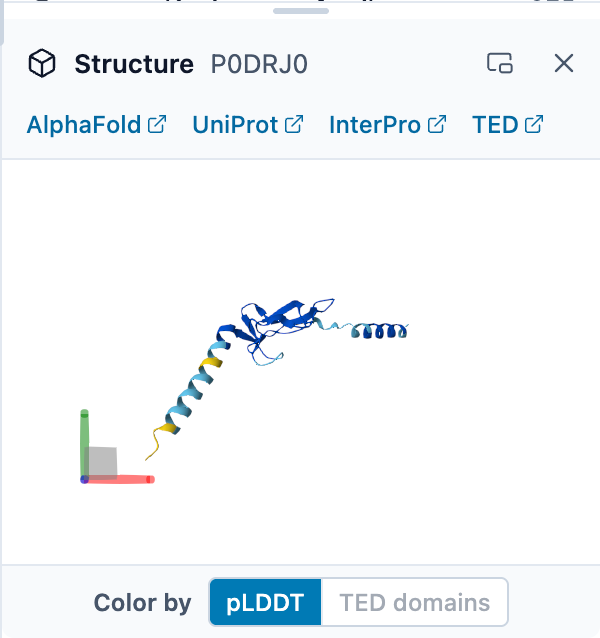
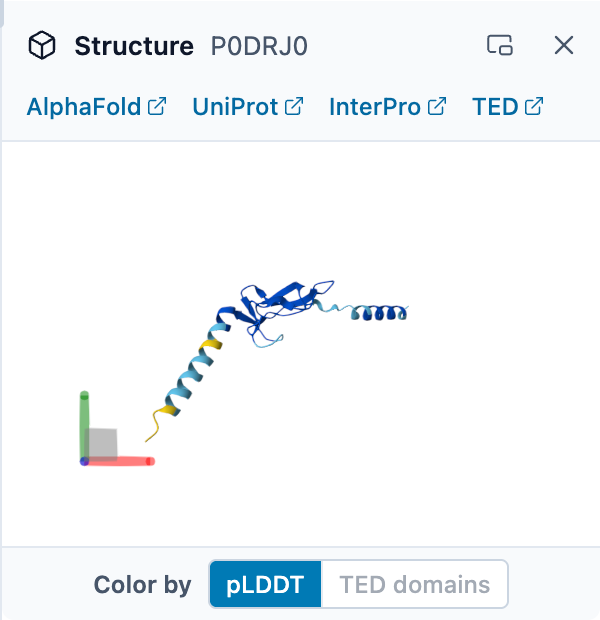
docs(explore): crop the app bar and view bar to readable pieces

diff --git a/scripts/docs-screenshots/scenes/overview.ts b/scripts/docs-screenshots/scenes/overview.ts
@@ -4,8 +4,15 @@
  * Ported from the old static captures (interface-overview 177, scatterplot-example 186,
  * legend-panel 195, structure-viewer 204 at a8cb13ca), on the workbench's helpers.
  */
-import { expect, type Page } from '@playwright/test';
-import { appBar, plotArea, viewBar } from '../../../apps/web/tests/helpers/explore';
+import { expect, type Locator, type Page } from '@playwright/test';
+import {
+  appBar,
+  filterButton,
+  plotArea,
+  projectionTrigger,
+  proteinSearch,
+  viewBar,
+} from '../../../apps/web/tests/helpers/explore';
 import { legend } from '../../../apps/web/tests/helpers/legend';
 import {
   waitForStructureLoaded,
@@ -17,7 +24,7 @@ import {
   rail,
   structurePanel,
 } from '../../../apps/web/tests/helpers/workbench';
-import type { CaptureEntry } from '../capture-plan';
+import type { CaptureEntry, Clip } from '../capture-plan';
 import { around } from './clip';
 
 /** Mol* loads from jsDelivr and the model from AlphaFold: allow for both on a slow network. */
@@ -32,6 +39,17 @@ async function showStructure(page: Page): Promise<void> {
 
 const themeMenu = (page: Page) => page.getByRole('menu', { name: 'Theme', exact: true });
 
+/**
+ * A bar's full height, from `first`'s left edge to `last`'s right edge, grown by `pad`: a full-width
+ * bar shown in the ~690 px docs column would shrink its text to a few pixels.
+ */
+async function barSpan(bar: Locator, first: Locator, last: Locator, pad = 12): Promise<Clip> {
+  const [b, l, r] = await Promise.all([around([bar], 0), around([first], 0), around([last], 0)]);
+  const x = Math.max(b.x, l.x - pad);
+  const right = Math.min(b.x + b.width, r.x + r.width + pad);
+  return { x, y: b.y, width: right - x, height: b.height };
+}
+
 export const OVERVIEW_CAPTURES: CaptureEntry[] = [
   {
     name: 'interface-overview',
@@ -43,11 +61,29 @@ export const OVERVIEW_CAPTURES: CaptureEntry[] = [
     docs: ['explore/index.md'],
   },
   {
-    name: 'app-bar',
+    name: 'app-bar-start',
     kind: 'png',
     viewport: 'desktop',
     themes: ['light', 'dark'],
-    target: (page) => appBar(page),
+    // The logo, the dataset name and the search.
+    target: (page) =>
+      barSpan(
+        appBar(page),
+        appBar(page).locator('[data-workbench="app-bar-start"]'),
+        proteinSearch(page),
+      ),
+    docs: ['explore/index.md'],
+  },
+  {
+    name: 'app-bar-actions',
+    kind: 'png',
+    viewport: 'desktop',
+    themes: ['light', 'dark'],
+    // Import and Export, Theme, Help, Feedback and GitHub.
+    target: (page) => {
+      const actions = appBar(page).locator('[data-workbench="app-bar-actions"]');
+      return barSpan(appBar(page), actions, actions);
+    },
     docs: ['explore/index.md'],
   },
   {
@@ -55,7 +91,7 @@ export const OVERVIEW_CAPTURES: CaptureEntry[] = [
     kind: 'png',
     viewport: 'desktop',
     themes: ['light', 'dark'],
-    target: (page) => viewBar(page),
+    target: (page) => barSpan(viewBar(page), projectionTrigger(page), filterButton(page)),
     docs: ['explore/index.md'],
   },
   {
@@ -80,7 +116,13 @@ export const OVERVIEW_CAPTURES: CaptureEntry[] = [
     themes: ['light', 'dark'],
     timeoutMs: STRUCTURE_TIMEOUT_MS,
     steps: showStructure,
-    target: (page) => structurePanel(page),
+    // From the viewer's header down: the panel's box also holds the divider and a sliver of the
+    // legend's last row above it.
+    target: async (page) => {
+      const panel = await around([structurePanel(page)], 0);
+      const header = await around([structurePanel(page).locator('.header').first()], 0);
+      return { ...panel, y: header.y, height: panel.y + panel.height - header.y };
+    },
     docs: ['explore/index.md', 'explore/structures.md'],
   },
   {
@@ -103,11 +145,15 @@ export const OVERVIEW_CAPTURES: CaptureEntry[] = [
       const workbench = page.locator('.workbench');
       await cap.hold(800);
 
-      await cap.click(rail(page).getByRole('button', { name: 'Collapse sidebar' }));
+      await cap.click(rail(page).getByRole('button', { name: 'Collapse sidebar' }), {
+        label: 'Collapse sidebar',
+      });
       await expect(workbench).toHaveAttribute('data-sidebar', 'collapsed');
       await cap.hold(1_200);
 
-      await cap.click(rail(page).getByRole('button', { name: 'Expand sidebar' }));
+      await cap.click(rail(page).getByRole('button', { name: 'Expand sidebar' }), {
+        label: 'Expand sidebar',
+      });
       await expect(workbench).toHaveAttribute('data-sidebar', 'open');
       await cap.hold(1_000);
 
@@ -117,6 +163,7 @@ export const OVERVIEW_CAPTURES: CaptureEntry[] = [
       const wider = { x: from.x - 120, y: from.y };
       await cap.moveTo(from, { steps: 15 });
       await cap.hold(300);
+      await cap.label('Drag');
       await cap.drag(from, wider, { steps: 30 });
       await cap.hold(800);
       await cap.drag(wider, from, { steps: 30 });

diff --git a/docs/explore/index.md b/docs/explore/index.md
@@ -16,14 +16,18 @@ The Explore page is a workbench for protein embeddings: a map of your proteins i
 
 ## App bar
 
-![The app bar: the ProtSpace logo, the dataset name and protein count, search, Import, Export, Theme and Help](./images/app-bar.png){.light-only}
-![The app bar: the ProtSpace logo, the dataset name and protein count, search, Import, Export, Theme and Help](./images/app-bar-dark.png){.dark-only}
+![The app bar's left side: the ProtSpace logo, the dataset name with its protein count, and the search box](./images/app-bar-start.png){.light-only}
+![The app bar's left side: the ProtSpace logo, the dataset name with its protein count, and the search box](./images/app-bar-start-dark.png){.dark-only}
+
+![The app bar's right side: Import, Export, then the Theme, Help, Feedback and GitHub buttons](./images/app-bar-actions.png){.light-only}
+![The app bar's right side: Import, Export, then the Theme, Help, Feedback and GitHub buttons](./images/app-bar-actions-dark.png){.dark-only}
 
 - **Dataset name** shows what is loaded and how many proteins it holds. Click it for the [dataset menu](/explore/controls#dataset-menu): the example datasets, your last file and **Open a file…**.
 - **Search** finds proteins by ID; paste a list of IDs to select them all at once. See [Search](/explore/controls#search).
 - **Import** and **Export** load data and save images, figures and data. See [Importing Data](/explore/importing-data) and [Exporting Results](/explore/exporting).
 - **Theme** switches between System, Light and Dark; see [Light and dark](#light-and-dark).
 - **Help** has the documentation, the keyboard shortcuts and the tour; see [Help, shortcuts and the tour](#help-shortcuts-and-the-tour).
+- **Feedback** starts an email to the ProtSpace team, and **GitHub** opens the project's repository.
 
 ## View bar
 
